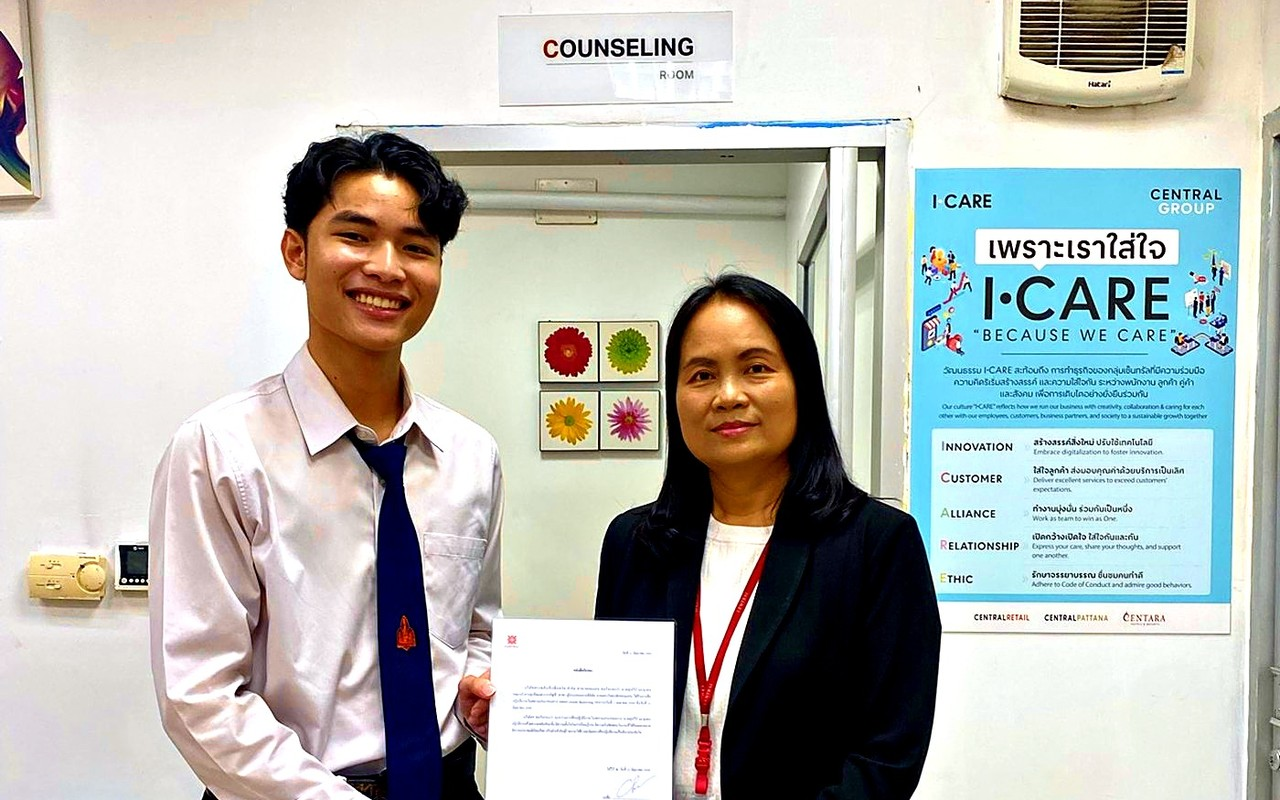
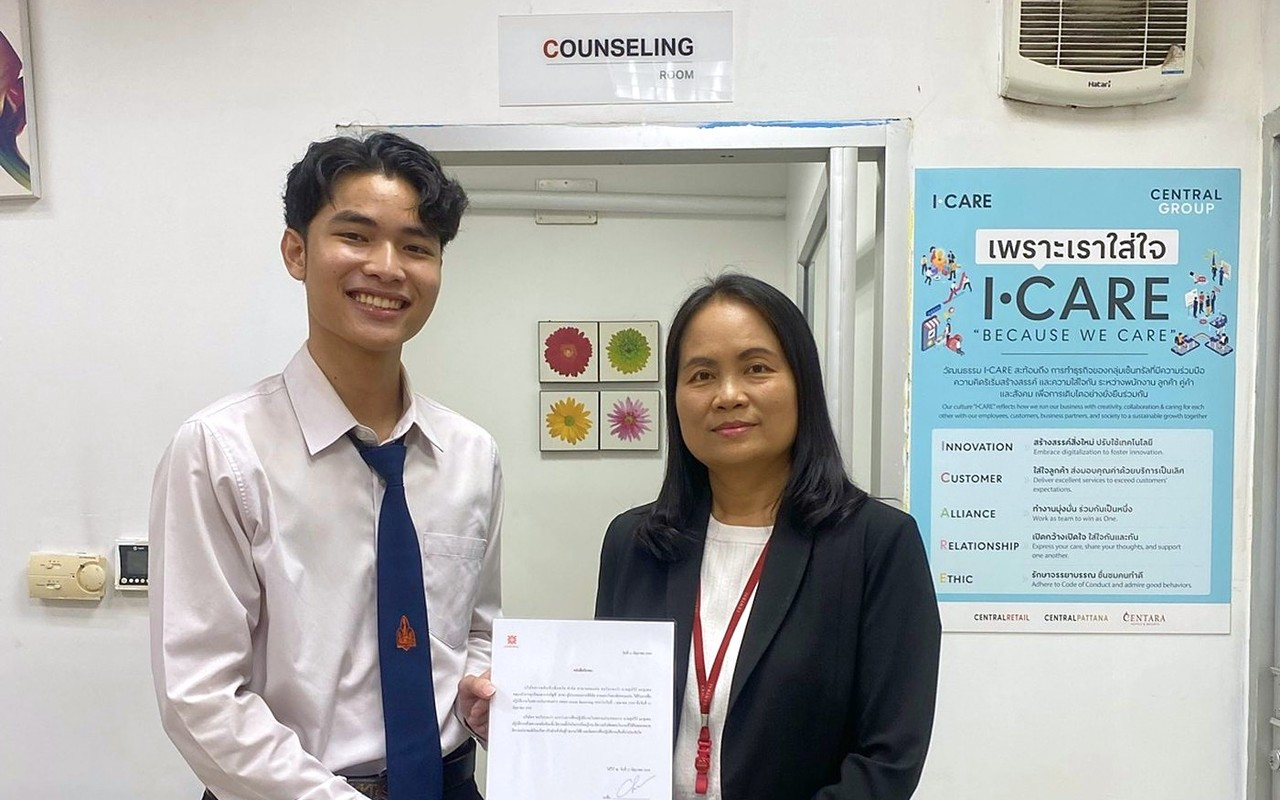
Central: lighter, softer colour grade

diff --git a/projects-list.js b/projects-list.js
@@ -18,7 +18,7 @@ const PROJECTS = [
   { title: "Sherlock — AI Meeting Notes", tag: "Top score in class", img: "assets/projects/sherlock-card.jpg?v=202611040300", page: "sherlock" },
   { title: "KKU Report Skill", split: true, video: "assets/projects/kku/clip.mp4",
     statsList: [{ num: "204K", label: "views" }, { num: "11K", label: "likes" }, { num: "8.6K", label: "shares" }], page: "kku" },
-  { title: "Central — Goods Receiving", tag: "Internship", img: "assets/projects/central-card.jpg?v=202611041230", page: "central" },
+  { title: "Central — Goods Receiving", tag: "Internship", img: "assets/projects/central-card.jpg?v=202611041245", page: "central" },
   { title: "ModKrub — Thai Game Mods", tag: "Free for everyone", img: "assets/projects/modkrub.jpg", page: "modkrub" },
   { title: "Coca-Cola — Unleash the Game", tag: "AI Video", video: "assets/projects/coke/cover.mp4", page: "coke" },
   { title: "MUVITA — R2M 2025", tag: "Research to Market", img: "assets/projects/muvita/product.jpg", page: "muvita" },

diff --git a/project-data.js b/project-data.js
@@ -541,7 +541,7 @@ const PROJECT_PAGES = {
         { type: "img", src: "assets/projects/central/desk.jpg" },
         { type: "img", src: "assets/projects/central/docs.jpg" },
       ]},
-      { type: "img", src: "assets/projects/central/cert.jpg?v=202611041230", cap: { en: "Certificate", th: "ใบประกาศ" } },
+      { type: "img", src: "assets/projects/central/cert.jpg?v=202611041245", cap: { en: "Certificate", th: "ใบประกาศ" } },
     ],
     learned: {
       en: "Being systematic, attention to detail and patience — from the mindset of the people I worked with.",
